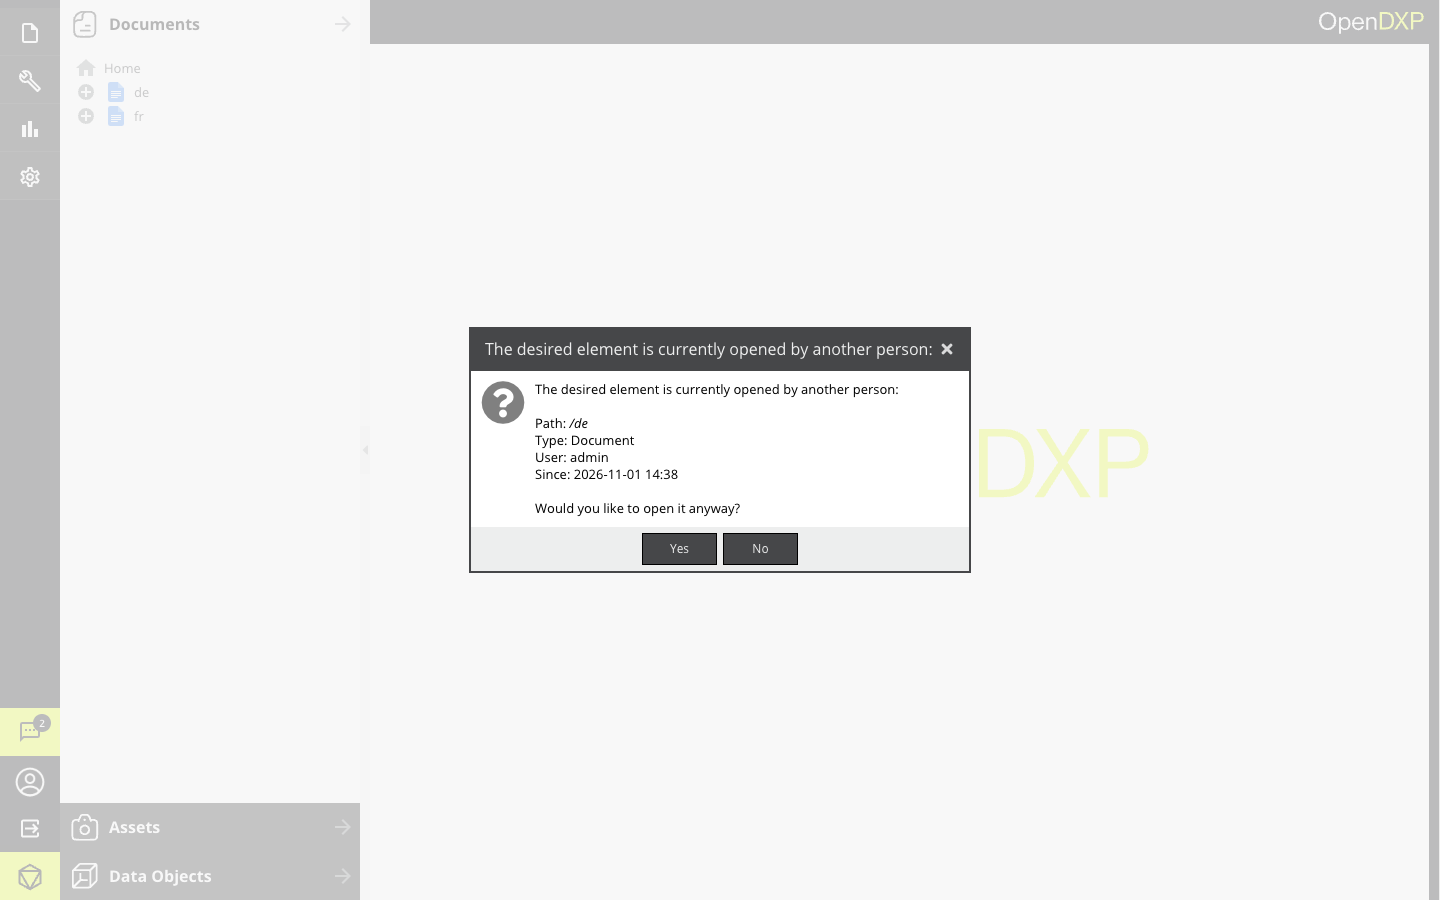
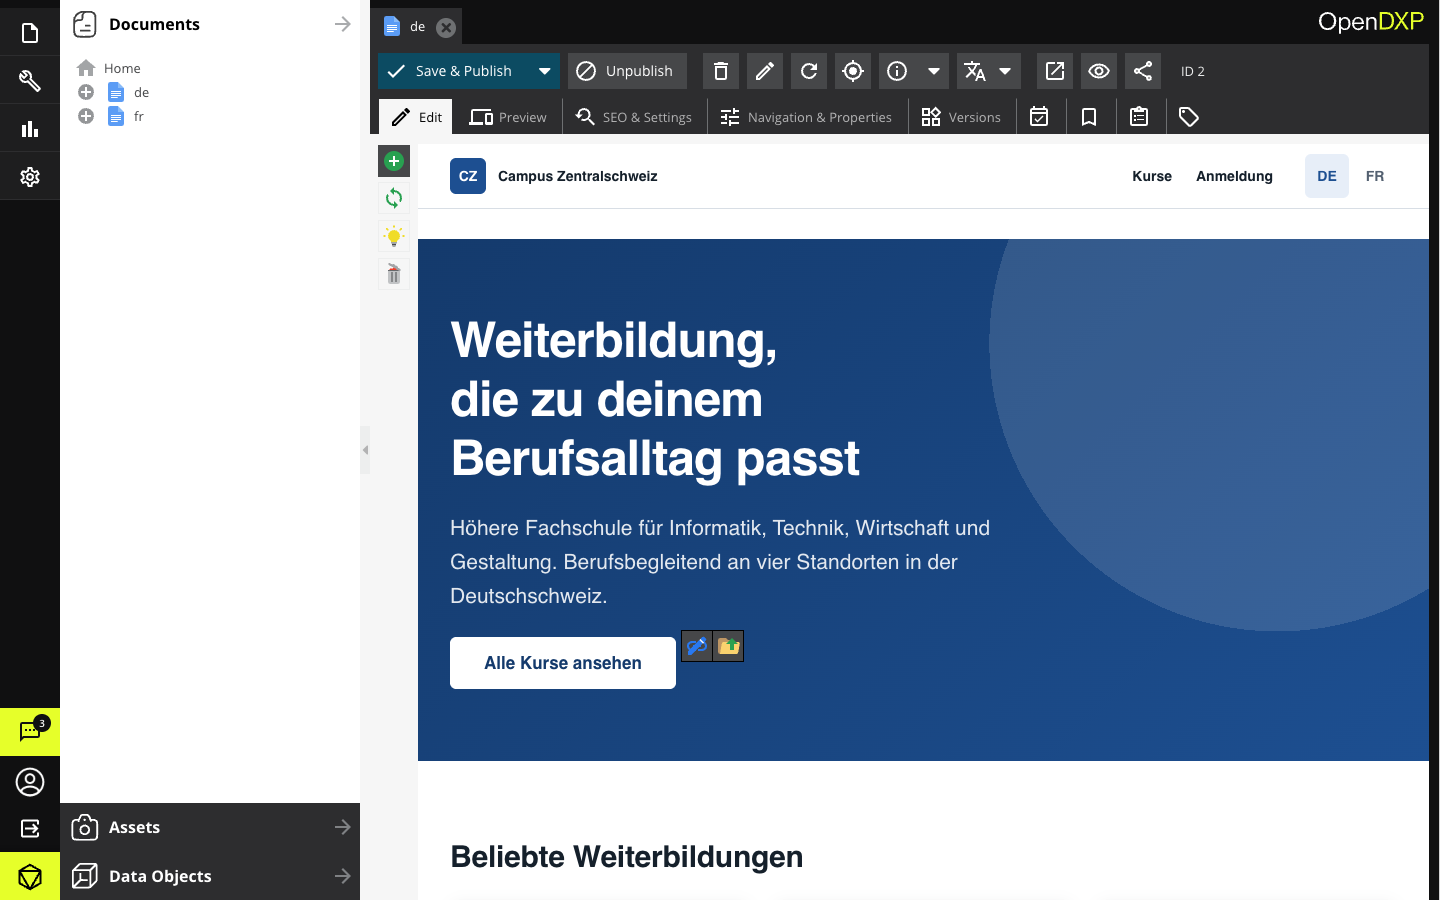
Fix the admin screenshot and the highlighted section in the navigation
- The admin screenshot showed the edit lock dialog of OpenDXP instead of the editor
- The navigation highlights any aria-current, so Kurse stays marked on a course page

diff --git a/assets/styles/layout/_site-header.scss b/assets/styles/layout/_site-header.scss
@@ -147,7 +147,8 @@
             color: var(--color-primary);
         }
 
-        &[aria-current='page'] {
+        // The current page and its section, like Kurse on a course page.
+        &[aria-current] {
             color: var(--color-primary);
             box-shadow: inset 0 -2px 0 currentcolor;
         }
